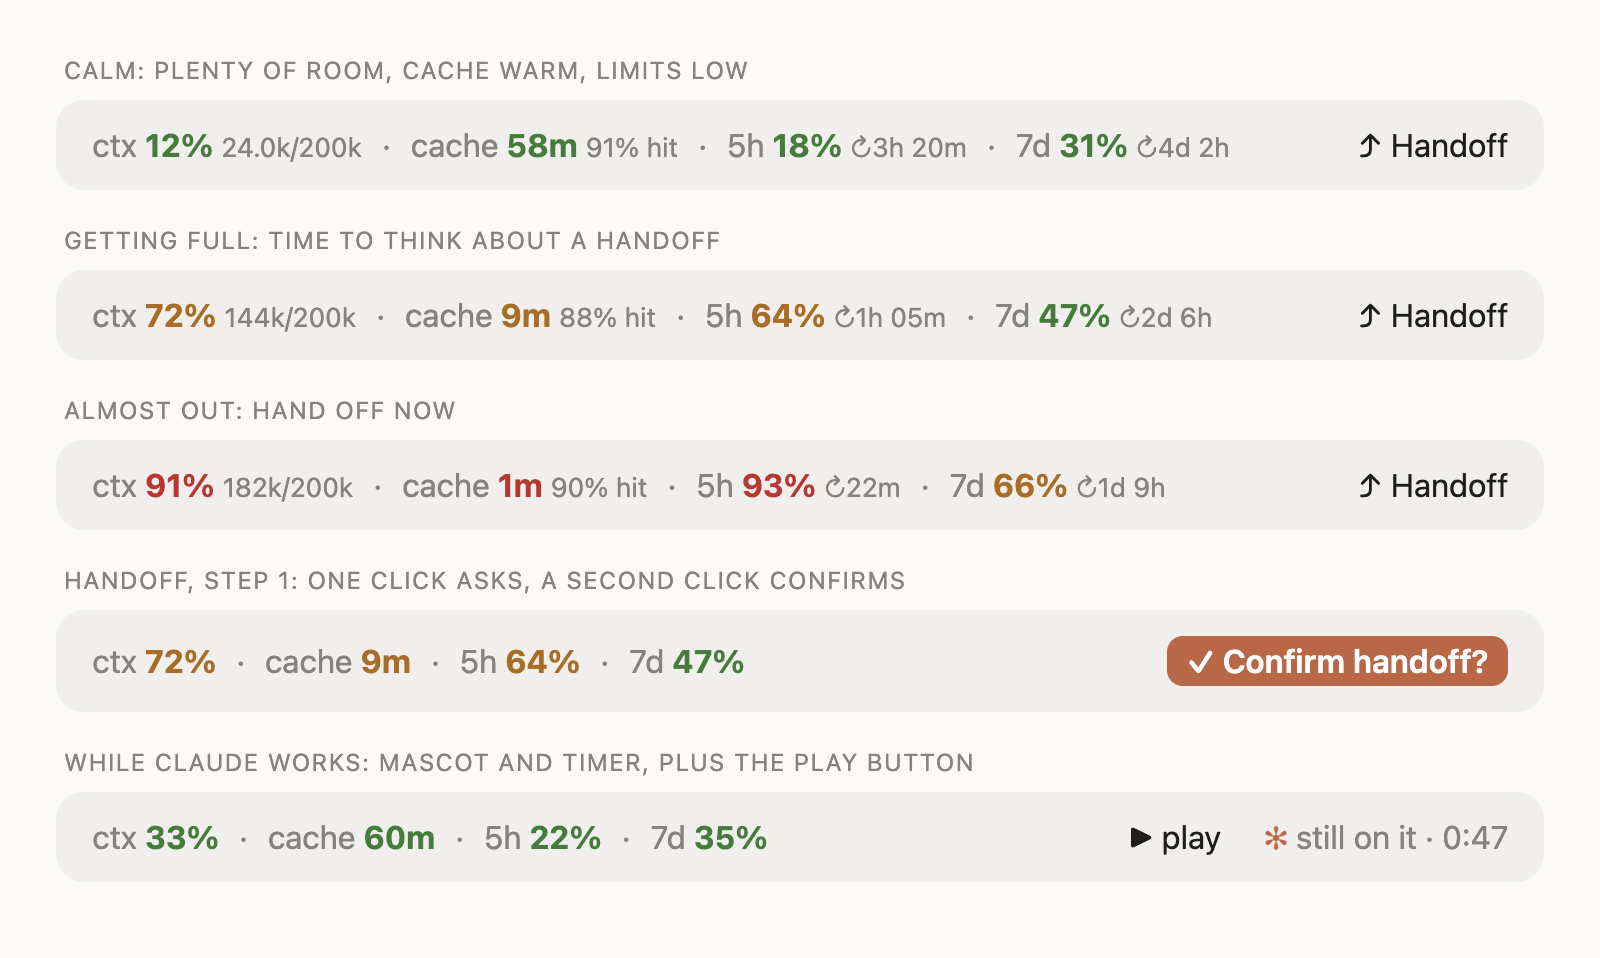
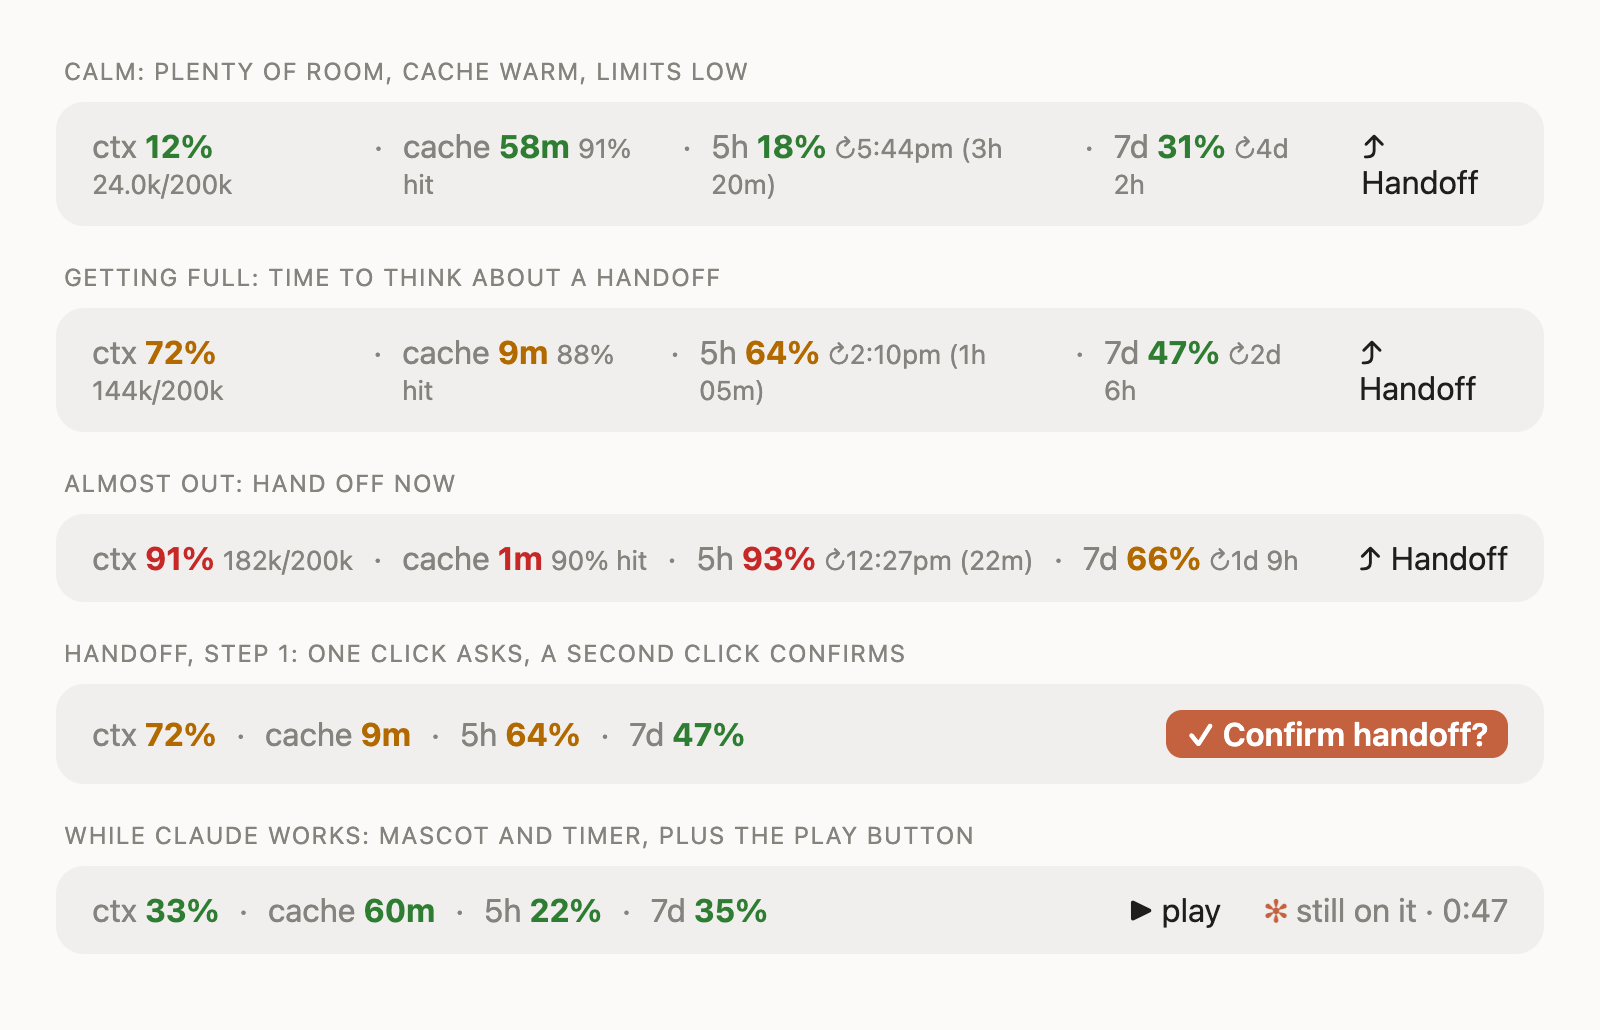
Prepare for the Claude directory: privacy section, fresh docs images (v0.13.13)
- README: add "Privacy, and what this plugin runs"; document 5h reset clock time
- Trace log no longer records typed characters
- plugin.json: displayName "Claude Cockpit", version 0.13.13
- Rebuild docs/*.png from current game; fix scripts/make-docs.ts

diff --git a/scripts/make-docs.ts b/scripts/make-docs.ts
@@ -3,7 +3,7 @@
 // then screenshot each page (see docs/README.md).
 import { mkdirSync, writeFileSync } from 'node:fs'
 
-import { act, deskConfig, deskLine, fresh, lookFor, COSTUME_IDS } from '../hooks/crab/game'
+import { act, deskConfig, fresh, lookFor, COSTUME_IDS, FIRST_GAME_READY } from '../hooks/crab/game'
 import type { Game } from '../hooks/crab/game'
 import { crabGroup, sceneSvg } from '../hooks/crab/scene'
 import { STAGES } from '../hooks/crab/stages'
@@ -21,9 +21,6 @@ body{margin:0;background:#fbfaf8;font:14px -apple-system,BlinkMacSystemFont,'Seg
 .band{display:flex;justify-content:space-between;color:#85837d;font-size:15px;margin-bottom:10px}
 .band b{color:#2e7d32;margin-left:4px}.band .d{margin:0 6px}
 .band .r{color:#1f1e1d;display:flex;gap:22px}
-.keysrow{display:flex;justify-content:space-between;align-items:center;color:#85837d;font-size:15px;margin:0 0 4px}
-.keysrow .f{border:1px solid #d9d7d2;border-radius:7px;padding:2px 10px;min-width:150px;background:#f7f6f4}
-.keysrow .k{display:flex;gap:18px}.keysrow kbd{font:11px ui-monospace,Menlo,monospace;border:1px solid #d9d7d2;border-radius:5px;padding:0 5px;margin-right:6px}
 svg{display:block}
 .grid{display:grid;grid-template-columns:repeat(4,1fr);gap:14px;width:760px;padding:28px;box-sizing:border-box}
 .tile{background:#f0efed;border-radius:14px;padding:12px 8px 10px;text-align:center}
@@ -35,11 +32,11 @@ const W = 728
 const H = Math.round((W * 72) / deskConfig.width)
 const base = (g: Partial<Game>): Game => ({ ...act(fresh(377, 7, 'ready', lookFor('plain'), deskConfig), deskConfig), ...g })
 
-const panel = (g: Game, bandRow: boolean, quiet = false) => `<div class="panel">${
+const panel = (g: Game, bandRow: boolean) => `<div class="panel">${
   bandRow
     ? `<div class="band"><div>ctx<b>8%</b><span class="d">·</span>cache<b>55m</b><span class="d">·</span>5h<b>29%</b><span class="d">·</span>7d<b>46%</b></div><div class="r"><span>■ close</span><span>⤴ Handoff</span></div></div>`
     : ''
-}<p class="keysrow"><span class="f">${deskLine(g, 'any key', quiet).trim() || '&nbsp;'}</span><span class="k">${quiet ? '' : '<span><kbd>J</kbd>▼ duck</span><span><kbd>K</kbd>▲ jump</span>'}</span></p>${sceneSvg(g, deskConfig, { width: W, height: H })}</div>`
+}${sceneSvg(g, deskConfig, { width: W, height: H })}</div>`
 
 const bug = (id: number, x: number, kind: Game['obs'][number]['kind'], w: number, h: number, base = 0): Game['obs'][number] => ({ id, x, w, h, base, tall: kind === 'beetle', kind })
 const playing = base({
@@ -60,7 +57,7 @@ const playing = base({
   note: 'moth! duck under it with ↓ or J',
   noteAge: 12,
 })
-const ready = { ...fresh(377, 7, 'ready', lookFor('astronaut'), deskConfig) }
+const ready = { ...fresh(377, 7, 'ready', lookFor('astronaut'), deskConfig), note: FIRST_GAME_READY, noteAge: 0 }
 const over = base({ mode: 'over', score: 95.2, grabbed: 1, off: 300, obs: [bug(1, 48, 'bug', 12, 9)], clouds: [{ id: 2, x: 190, w: 16, h: 40 }] })
 
 writeFileSync(
@@ -68,7 +65,7 @@ writeFileSync(
   `<!doctype html><meta charset=utf-8><style>${CSS}</style><body><div class="wrap">
 <div class="cap">Playing: jump, fix or duck the bugs</div>${panel(playing, true)}
 <div class="cap">Waiting to start</div>${panel(ready, false)}
-<div class="cap">Game over (and every run, once you know the keys: the line and the J / K labels go quiet)</div>${panel(over, false, true)}</div>
+<div class="cap">Game over (from the second game on, the key hints go quiet)</div>${panel(over, false)}</div>
 <script>addEventListener('load',()=>document.querySelectorAll('svg').forEach(s=>{if(s.pauseAnimations){s.pauseAnimations();s.setCurrentTime(0.02)}}))</script>`,
 )
 
@@ -83,7 +80,7 @@ writeFileSync(`${out}/costumes.html`, `<!doctype html><meta charset=utf-8><style
 
 // ---- the band on its own: what the numbers look like, and the handoff buttons ----
 const BAND_CSS = `
-.row{display:flex;justify-content:space-between;align-items:center;background:#f0efed;border-radius:14px;padding:13px 18px;margin-bottom:10px;font-size:16px;color:#85837d}
+.row{display:flex;justify-content:space-between;align-items:center;gap:20px;background:#f0efed;border-radius:14px;padding:13px 18px;margin-bottom:10px;font-size:16px;color:#85837d}
 .row .m{display:flex;gap:6px;align-items:baseline}.row .m b{margin-left:4px}.row .d{margin:0 4px}
 .g{color:#2e7d32}.y{color:#b26a00}.r{color:#c62828}
 .row .r2{display:flex;gap:22px;color:#1f1e1d;align-items:center}
@@ -98,11 +95,11 @@ const metrics = (parts: string[]) => `<div class="m">${parts.join('<span class="
 const bandRow = (m: string[], right: string) => `<div class="row">${metrics(m)}<div class="r2">${right}</div></div>`
 const bandPage = `<!doctype html><meta charset=utf-8><style>${CSS}${BAND_CSS}</style><body><div class="wrap">
 <div class="cap">Calm: plenty of room, cache warm, limits low</div>
-${bandRow([cell('ctx', '12%', 'g', '24.0k/200k'), cell('cache', '58m', 'g', '91% hit'), cell('5h', '18%', 'g', '↻3h 20m'), cell('7d', '31%', 'g', '↻4d 2h')], '<span>⤴ Handoff</span>')}
+${bandRow([cell('ctx', '12%', 'g', '24.0k/200k'), cell('cache', '58m', 'g', '91% hit'), cell('5h', '18%', 'g', '↻5:44pm (3h 20m)'), cell('7d', '31%', 'g', '↻4d 2h')], '<span>⤴ Handoff</span>')}
 <div class="cap">Getting full: time to think about a handoff</div>
-${bandRow([cell('ctx', '72%', 'y', '144k/200k'), cell('cache', '9m', 'y', '88% hit'), cell('5h', '64%', 'y', '↻1h 05m'), cell('7d', '47%', 'g', '↻2d 6h')], '<span>⤴ Handoff</span>')}
+${bandRow([cell('ctx', '72%', 'y', '144k/200k'), cell('cache', '9m', 'y', '88% hit'), cell('5h', '64%', 'y', '↻2:10pm (1h 05m)'), cell('7d', '47%', 'g', '↻2d 6h')], '<span>⤴ Handoff</span>')}
 <div class="cap">Almost out: hand off now</div>
-${bandRow([cell('ctx', '91%', 'r', '182k/200k'), cell('cache', '1m', 'r', '90% hit'), cell('5h', '93%', 'r', '↻22m'), cell('7d', '66%', 'y', '↻1d 9h')], '<span>⤴ Handoff</span>')}
+${bandRow([cell('ctx', '91%', 'r', '182k/200k'), cell('cache', '1m', 'r', '90% hit'), cell('5h', '93%', 'r', '↻12:27pm (22m)'), cell('7d', '66%', 'y', '↻1d 9h')], '<span>⤴ Handoff</span>')}
 <div class="cap">Handoff, step 1: one click asks, a second click confirms</div>
 ${bandRow([cell('ctx', '72%', 'y'), cell('cache', '9m', 'y'), cell('5h', '64%', 'y'), cell('7d', '47%', 'g')], '<span class="conf">✓ Confirm handoff?</span>')}
 <div class="cap">While Claude works: mascot and timer, plus the play button</div>

diff --git a/hooks/register.tsx b/hooks/register.tsx
@@ -17,7 +17,7 @@ const runAtom = atom({ plugin: 'status-band', key: 'game' } as const, null)
 // the terminal's game lives in its Client: each press of the prompt's keys bumps this, and the Client acts on a change
 const signalAtom = atom({ plugin: 'status-band', key: 'jumpSignal' } as const, 0)
 
-const VERSION = '0.13.11'
+const VERSION = '0.13.13'
 // rows the game takes: the terminal's is a header, the five rows of the field and the ground;
 // the desktop's the one line of guidance (which is also the click target) and the picture (108 px)
 const GAME_ROWS = { text: 7, svg: 9 } as const
@@ -61,6 +61,15 @@ const until = (iso: string | undefined, now: number) => {
   if (mins >= 1440) return `${Math.floor(mins / 1440)}d${Math.floor((mins % 1440) / 60)}h`
   if (mins >= 60) return `${Math.floor(mins / 60)}h${String(mins % 60).padStart(2, '0')}m`
   return `${mins}m`
+}
+
+// the wall-clock time a window ends, in the machine's own zone: 3:40pm (the 5-hour window moves, so the time is the useful part)
+const clockAt = (iso: string | undefined) => {
+  const t = iso ? Date.parse(iso) : NaN
+  if (Number.isNaN(t)) return ''
+  const d = new Date(t)
+  const h = d.getHours() % 12 || 12
+  return `${h}:${String(d.getMinutes()).padStart(2, '0')}${d.getHours() < 12 ? 'am' : 'pm'}`
 }
 
 const level = (pct: number) => (pct >= 85 ? 'error' : pct >= 60 ? 'warning' : 'success')
@@ -720,13 +729,13 @@ export const register: Register = (on, options) => {
 
   // Space and ↑ play while the game is open and the prompt box is empty, without a click on the game
   // first: the box takes them as edits, so they are read here and not typed. Any other text, and the
-  // box behaves as ever. The first few edits while the game is open go to the trace, to show what
-  // the box really hands over.
+  // box behaves as ever. The first few edits while the game is open go to the trace, as a game key or
+  // a pass: never the text itself.
   on('prompt.edit', async ($, e, next) => {
     const move = await gameKey($, e)
     if (S.logged < 12 && e.text === '' && (await read($, gameAtom))) {
       S.logged++
-      void trace($, `edit key=${JSON.stringify(e.key ?? null)} input=${JSON.stringify(e.inputText)} game=${move ?? 'pass'}`)
+      void trace($, move ? `edit game key=${move}` : 'edit passed to the prompt')
     }
     if (move) {
       await pressKeys($, move)
@@ -911,9 +920,13 @@ export const register: Register = (on, options) => {
     )
 
     // limits
+    // the 5-hour window has no fixed schedule, so it always shows the time it ends (and the wait when there is room);
+    // the weekly one keeps its countdown on wide bands only
     const limitCell = (label: string, l: { percent: number; resetsAt?: string } | undefined) => {
       if (!l) return null
-      const reset = wide ? `↻${until(l.resetsAt, now)}` : ''
+      const wait = until(l.resetsAt, now)
+      const at = label === '5h' ? clockAt(l.resetsAt) : ''
+      const reset = at ? `↻${at}${wide && wait ? ` (${wait})` : ''}` : wide && wait ? `↻${wait}` : ''
       return (
         <Box key={label} gap={1}>
           <Text dimColor>{label}</Text>

diff --git a/hooks/render.test.tsx b/hooks/render.test.tsx
@@ -928,3 +928,38 @@ describe('band layout', () => {
     await ui.unmount()
   })
 })
+
+describe('limits', () => {
+  // 2026-10-12 10:00 UTC is a fixed moment; the 5-hour window ends 2h14m later
+  const NOW = Date.parse('2026-10-12T10:00:00Z')
+  const END = new Date(NOW + (2 * 60 + 14) * 60000)
+  const hh = END.getHours() % 12 || 12
+  const clock = `${hh}:${String(END.getMinutes()).padStart(2, '0')}${END.getHours() < 12 ? 'am' : 'pm'}`
+  const limits = [
+    { kind: 'five_hour', percentUsed: 32, resetsAt: END.toISOString() },
+    { kind: 'seven_day', percentUsed: 12, resetsAt: new Date(NOW + 3 * 86400000).toISOString() },
+  ]
+
+  const open = async ($: Engine, on: (name: string, fn: (...a: never[]) => unknown) => void, bodyColumns: number) => {
+    world(on as never, '/work/none', [], false)
+    on('clock.now', () => ({ value: NOW }))
+    on('session.start', (_$, e) => ({ cwd: (e as { cwd: string }).cwd }))
+    on('session.usage', () => ({ value: { startedAt: NOW, context: { window: 200000 }, rateLimits: limits } }))
+    await $.session.start({ cwd: '/work/none', surface: 'desktop' } as never)
+    return band($, 'desktop', { bodyColumns })
+  }
+
+  for (const cols of [60, 95, 99, 100, 160]) {
+    test(`5h shows the percent and the clock time it resets at ${cols} columns`, async ($, on) => {
+      const ui = await open($, on as never, cols)
+      const tree = JSON.stringify(await ui.drawn())
+      expect(tree).toContain('5h')
+      expect(tree).toContain('"32","%"')
+      expect(tree).toContain(`↻${clock}`)
+      // the countdown and the weekly reset only fit on a wide band
+      expect(tree.includes('(2h14m)')).toBe(cols >= 100)
+      expect(tree.includes('↻3d0h')).toBe(cols >= 100)
+      await ui.unmount()
+    })
+  }
+})

diff --git a/README.md b/README.md
@@ -28,6 +28,7 @@ Works in the **Claude Code desktop app** and in the **terminal**. Free and open 
 - [Setup](#setup)
 - [Settings](#settings)
 - [Troubleshooting](#troubleshooting)
+- [Privacy, and what this plugin runs](#privacy-and-what-this-plugin-runs)
 - [For developers](#for-developers)
 
 ---
@@ -35,10 +36,10 @@ Works in the **Claude Code desktop app** and in the **terminal**. Free and open 
 ## Reading the band
 
 ```
-ctx 72%  144k/200k  ·  cache 9m  88% hit  ·  5h 64%  ↻1h 05m  ·  7d 47%  ↻2d 6h          ⤴ Handoff
+ctx 72%  144k/200k  ·  cache 9m  88% hit  ·  5h 64%  ↻2:10pm (1h 05m)  ·  7d 47%  ↻2d 6h          ⤴ Handoff
 ```
 
-Every number is **green** when things are fine, **amber** from 60 %, and **red** from 85 %. (Cache uses time instead: green above 10 minutes, amber above 2, red below.) On a narrow window the band shows just the main numbers; make the window wider to see the extra detail (`144k/200k`, `88% hit`, `↻1h 05m`).
+Every number is **green** when things are fine, **amber** from 60 %, and **red** from 85 %. (Cache uses time instead: green above 10 minutes, amber above 2, red below.) On a narrow window the band shows just the main numbers; make the window wider to see the extra detail (`144k/200k`, `88% hit`, the `(1h 05m)` wait).
 
 ### `ctx`: how full the chat is
 
@@ -70,7 +71,7 @@ Claude plans don't give you unlimited use; they give you allowances that refill 
 | **7d** | the **weekly limit** | A separate allowance for the whole week. Heavy users can hit this even if no single 5-hour stretch was full. |
 | **spend** | the **spending cap** | Only appears if your account has an extra-usage spending limit set. |
 
-The `↻1h 05m` beside each is the **time until it resets**. So `5h 93% ↻22m` reads: "I've used 93 % of this window, and it refills in 22 minutes", which means you can wait it out instead of burning through the rest.
+The `↻` beside each says **when it resets**. The 5-hour window has no fixed schedule, so it shows the clock time it ends, with the wait in brackets on a wide band: `5h 93% ↻12:27pm (22m)` reads "I've used 93 % of this window, and it refills at 12:27pm, in 22 minutes", which means you can wait it out instead of burning through the rest. The weekly `7d` shows a countdown (`↻2d 6h`) on wide bands.
 
 **Why you care:** you find out *before* you are cut off, and you can see whether it is worth waiting for a reset. A heavy afternoon can be paced around the `5h` number; a heavy week around `7d`.
 
@@ -130,7 +131,7 @@ One extra request to Claude (the summary). Because the band reads the chat throu
 | --- | --- | --- |
 | `ctx` amber or red | The chat is getting full; Claude may get vaguer | Finish the thought you are on, then **Handoff** |
 | `cache` low (or `–`) and you're about to leave | The next message will be a cold one | Hand off **now** while it's cheap, or accept that the first message back is slower |
-| `5h` red, with `↻22m` | You're nearly out of this 5-hour window | Wait for the reset, or switch to lighter tasks |
+| `5h` red, with `↻12:27pm (22m)` | You're nearly out of this 5-hour window | Wait for the reset, or switch to lighter tasks |
 | `7d` amber on a Tuesday | You're using the week's allowance fast | Pace yourself: shorter chats, fewer huge file reads |
 | Claude has been working for minutes | Nothing is wrong; it's a long task | Press **▶ play**, or step away |
 | Switching to a different task | The old chat's context is just noise now | **Handoff** (or just clear), and start the new thing clean |
@@ -273,6 +274,30 @@ Change these from the plugin's settings in Claude Code.
 - **Handoff said it didn't clear.** Type `/clear` yourself and paste: your note is saved in `~/.claude/handoffs/`.
 
 ---
+
+## Privacy, and what this plugin runs
+
+Cockpit is a *mod*: code that runs inside Claude Code on your machine. Everything it does is listed here.
+
+**It does not use the network.** It makes no web requests, has no server, no analytics and no account. It bundles no MCP server and no package to download, and it runs nothing from a package registry (`npx`, `uvx` and the like).
+
+**What it reads**
+- Your session's own numbers, which Claude Code hands to the mod: context use, cache timing, and the 5-hour and weekly limits.
+- The current folder's name, and, when you press Handoff only, read-only `git` commands in that folder (`git rev-parse`, `git branch --show-current`, `git status --porcelain -uno`) so the note can say which repo and branch you were on.
+- The `HOME` environment variable, to find `~/.claude`.
+
+**What it writes (all on your machine)**
+- `~/.claude/status-band-trace.log`: a short debugging log (the last few hundred lines) of what the band and the game keys did: button presses, version, errors. It records no prompt text, no conversation content, and no typed characters other than the game's own keys (Space, ↑, J, K). Delete it any time.
+- `~/.claude/handoffs/<time>.md`: the handoff note, saved only when you press Handoff, as a safety copy before the chat is cleared.
+- A small saved state in Claude Code's own mod store: your game best score, and the current band numbers.
+
+**The one thing that talks to Claude: Handoff.** When you press **⤴ Handoff** and confirm, the mod asks the same Claude session (a fork of it, through Claude Code's own `model.fork`) to write a short summary note, saves the note, runs `/clear`, and pastes the note into the new chat's prompt box for you to review and send. That uses your normal Claude usage. Nothing is sent anywhere else, and Handoff never runs on its own. The band, the mascot and the game make no model call and cost no tokens.
+
+**It does not** read your files other than the two logs above, collect personal data, store credentials, read other environment variables, or send anything to the author or any third party.
+
+**Who it is for:** developers using Claude Code. It is not directed at children.
+
+Questions or problems: open an issue at <https://github.com/SohamShirsat/claude-cockpit/issues>.
 
 ## For developers
 

diff --git a/CHANGELOG.md b/CHANGELOG.md
@@ -2,6 +2,22 @@
 
 What changed in each version, newest first. (The plugin's version lives in `.claude-plugin/plugin.json`.)
 
+## 0.13.13
+
+**Ready for the Claude directory: privacy page, fresh pictures.**
+- README: a new "Privacy, and what this plugin runs" section that lists everything the mod reads, writes and sends.
+- The trace log no longer records the characters typed into the prompt box while the game is open; it notes only "game key" or "passed to the prompt".
+- `displayName` is "Claude Cockpit" (the plugin's name stays `status-band`).
+- The pictures in `docs/` are rebuilt from the current game: no key field, the scoreboard in the picture, the 5-hour reset shown as a clock time. `scripts/make-docs.ts` works again.
+
+## 0.13.12
+
+**The 5-hour limit shows when it resets.**
+- Next to `5h 32%` the band now shows the clock time the window ends, small and dim: `5h 32% ↻5:44pm`. The 5-hour window has no fixed schedule, so the time is the useful part.
+- It shows at every width. (The old `↻` countdown only appeared at 100+ columns, and the desktop band is about 95, so it never showed there.) On a wide band the wait follows in brackets: `↻5:44pm (2h14m)`.
+- The weekly `7d` keeps its countdown on wide bands only, since that reset is on a known schedule.
+- No reset time from the app: no stray `↻` is drawn.
+
 ## 0.13.11
 
 **The first game says its keys in its own messages, not under the score.**
